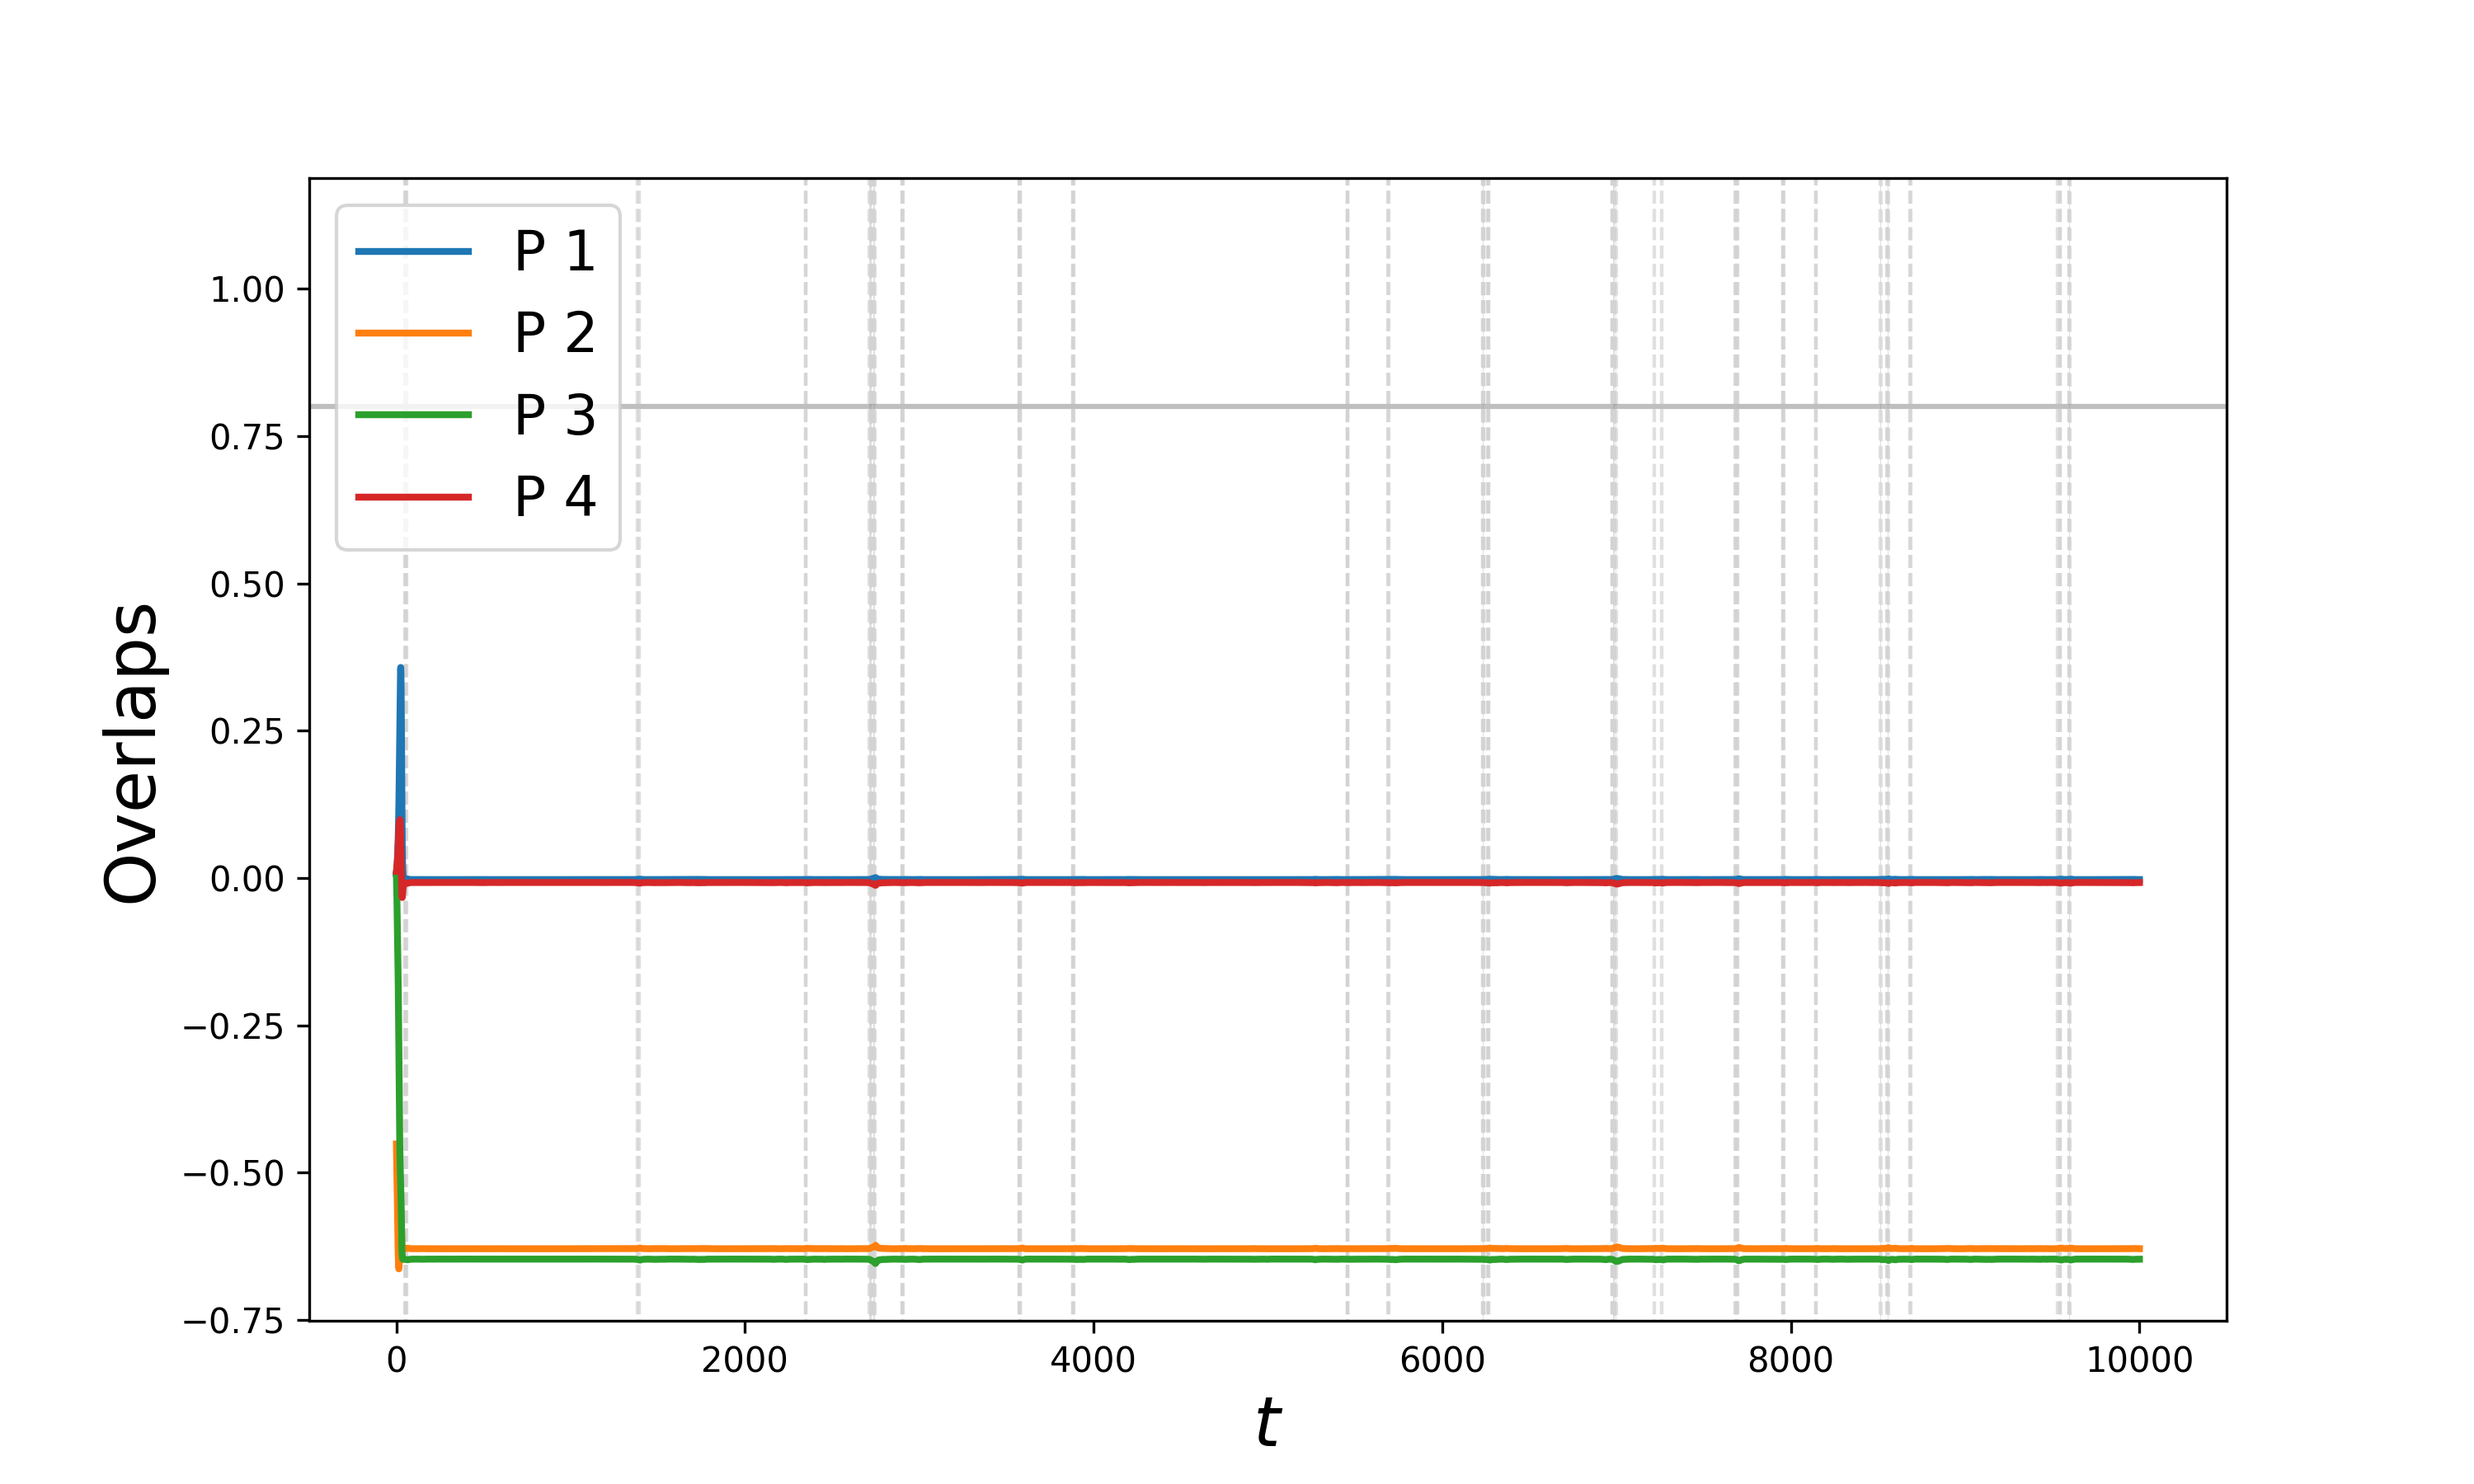
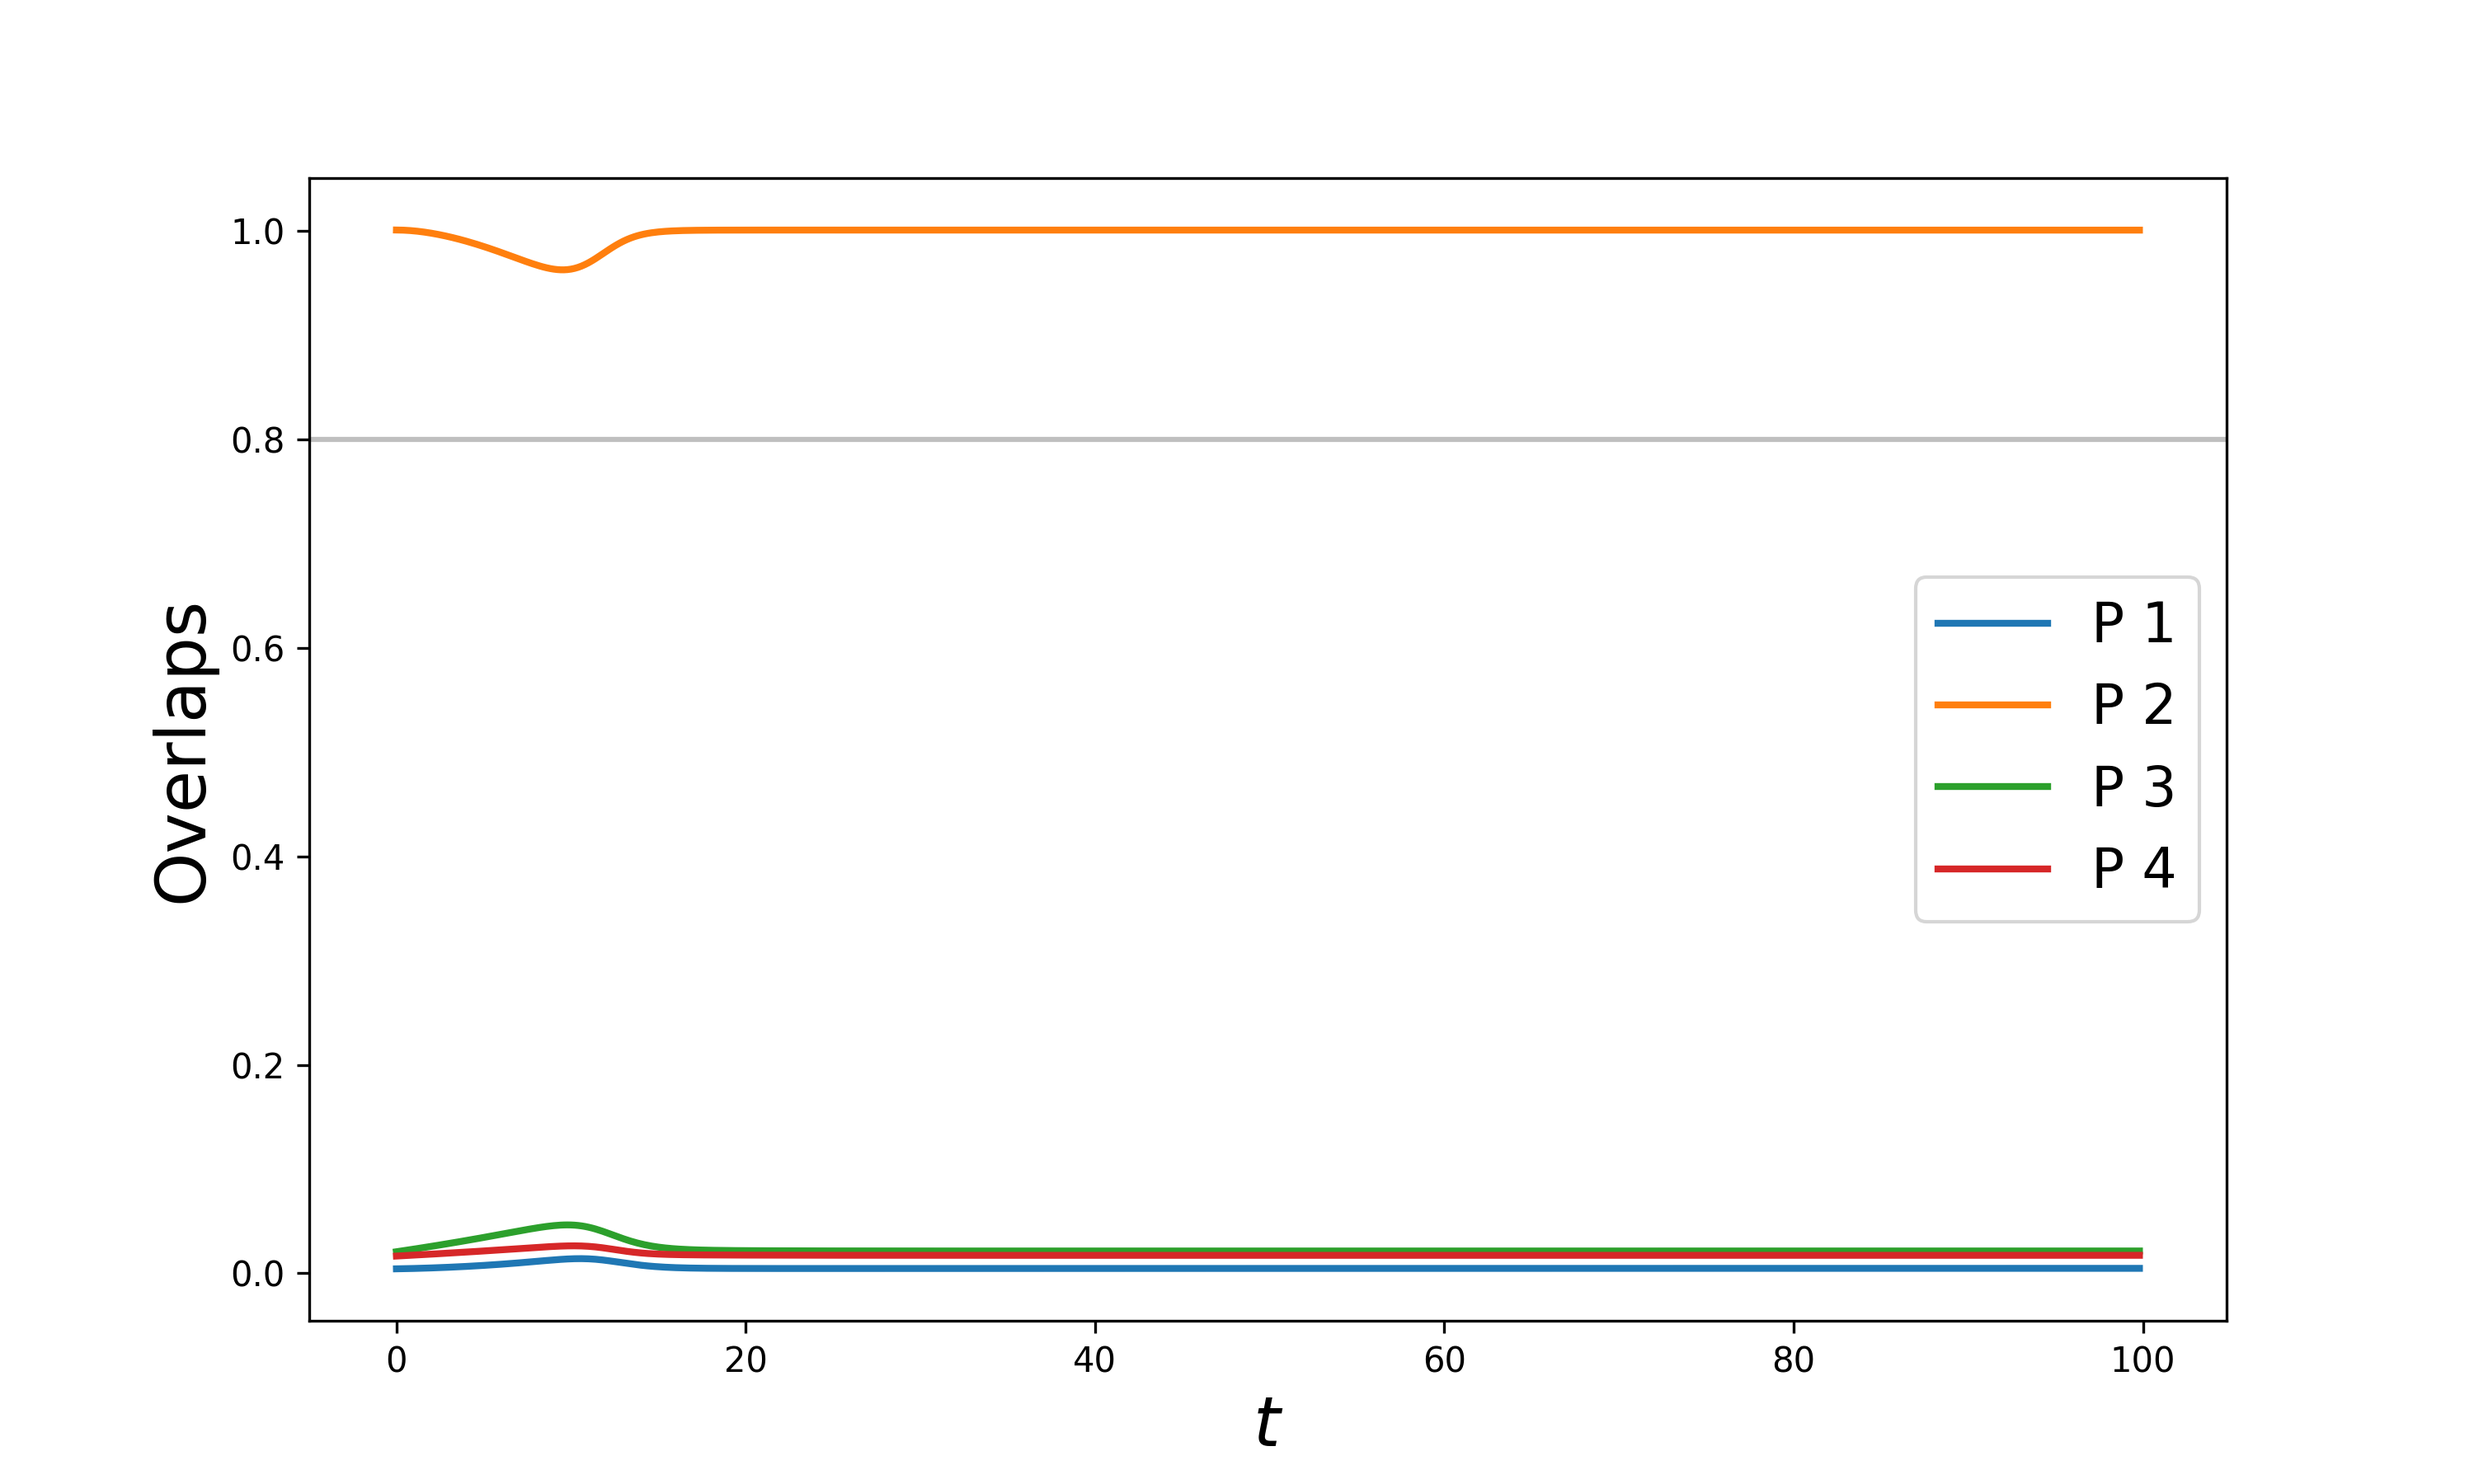
ou non neg

diff --git a/src/parameters.py b/src/parameters.py
@@ -13,7 +13,7 @@ import os
 from scipy.__config__ import show
 
 # Network size and pattern parameters
-N = 5000               # Number of neurons (increased for Numba testing)
+N = 1500               # Number of neurons (increased for Numba testing)
 p = 4                 # Number of patterns for symmetric component
 q = 4                  # Number of patterns for asymmetric component (q <= p)
 c = 0.1                # Connection probability (0-1) for Erdős-Rényi model
@@ -39,7 +39,7 @@ phi_x_r = 2.0                  # Threshold parameter for sigmoid function (using
 # Pattern distribution parameters
 pattern_mean = 0.0      # Mean of the Gaussian distribution for memory patterns
 pattern_sigma = 1.0     # Standard deviation of the Gaussian distribution for memory patterns
-alpha = 1.0  # Memory pattern sparsity (0-1): fraction of active neurons per pattern
+alpha = 1.0             # Memory pattern sparsity (0-1): fraction of active neurons per pattern
 enforce_max_correlation = False  # Switch to enable correlation constraint enforcement
 max_correlation = 0.5  # Maximum allowed correlation between patterns (when enforcement enabled)
 apply_sigma_cutoff = False       # Apply 1σ cutoff to patterns
@@ -61,7 +61,7 @@ use_numba = True        # Enable Numba JIT compilation for large networks (N > 1
 use_g = True  # Whether to apply g function to patterns, default is True in Recanatesi et al.
 
 # Initial condition settings
-init_cond_type = "Negative Memory Pattern"  # Options: "Random", "Zero", "Memory Pattern", "Near Memory Pattern", "Negative Memory Pattern"
+init_cond_type = "Memory Pattern"  # Options: "Random", "Zero", "Memory Pattern", "Near Memory Pattern", "Negative Memory Pattern"
 pattern_idx = 1         # Which pattern to use (0-indexed) if using pattern-based init - neglected in multiple simulations
 noise_level = 0.5       # Noise level if using "Near Memory Pattern" init
 
@@ -75,7 +75,7 @@ ou_non_neg = True     # Whether to enforce non-negativity on ζ(t)
 tau_zeta = 20.0          # OU time constant
 zeta_bar = 0.7          # OU mean value (0.65)
 sigma_zeta = 0.55        # OU noise intensity (0.65)
-constant_zeta = 1.     # Constant ζ value when OU is not used
+constant_zeta = 0.    # Constant ζ value when OU is not used
 
 # =============================================================================
 # VISUALIZATION PARAMETERS

diff --git a/src/simulation.py b/src/simulation.py
@@ -56,6 +56,7 @@ def simulation():
     use_numba,
     use_g,
     use_ou,
+    ou_non_neg,
     tau_zeta,
     zeta_bar,
     sigma_zeta,
@@ -186,12 +187,19 @@ def simulation():
             "\nSkipping matrix plots for large network (N > 2000) or to save time and resources."
         )
 
+    # Prepare g function parameters
+    g_params = {
+        'q_f': g_q,
+        'x_f': g_x
+    }
+
     # Set up initial condition with proper noise calculation 
     initial_condition = initial_condition_creator(
         init_cond_type=init_cond_type,
         N=N,
+        g_params=g_params,
         p=p,
-        eta=eta,
+        xi=phi_eta,
         pattern_idx=pattern_idx,
         noise_level=noise_level,
         seed=seed+19
@@ -200,8 +208,7 @@ def simulation():
     # Simulation time span
     t_span = (t_start, t_end)
 
-    # Convert initial condition and time span to float32 =========================================
-    initial_condition = initial_condition.astype(np.float32)
+    # Convert time span to float32 =========================================
     t_span = (t_start, t_end)
     # ============================================================================================
 
@@ -298,12 +305,6 @@ def simulation():
             'r_m': phi_r_m,
             'beta': phi_beta,
             'x_r': phi_x_r
-        }
-
-        # Prepare g function parameters
-        g_params = {
-            'q_f': g_q,
-            'x_f': g_x
         }
 
         overlaps = calculate_pattern_overlaps(u,
@@ -547,9 +548,7 @@ def simulation():
     # plot the times when the ou noise is above the threshold
     if zeta_array is not None:
         above_threshold = zeta_array > ou_threshold
-        under_threshold = zeta_array <= -1
         ax.fill_between(t, -0.1, 1.1, where=above_threshold, color='lightgray', alpha=0.7, ls = 'dashed', transform=ax.get_xaxis_transform())
-        ax.fill_between(t, -0.1, 1.1, where=under_threshold, color='k', alpha=0.7, ls = 'dashed', transform=ax.get_xaxis_transform())
     if overlaps is not None and overlaps.shape[1] > 0:
         p = overlaps.shape[1]
         for i in range(p):

diff --git a/src/modules/dynamics.py b/src/modules/dynamics.py
@@ -21,7 +21,7 @@ def _ou_heun_step(z, dt_step, tau_zeta, zeta_bar, sigma_zeta, dW):
 # ---------------------------
 # Initial conditions
 # ---------------------------
-def initial_condition_creator(init_cond_type, N, p=0, eta=None, pattern_idx=None, noise_level=0.5, seed=None):
+def initial_condition_creator(init_cond_type, N, g_params, p=0, xi=None, pattern_idx=None, noise_level=0.5, seed=None):
     if seed is not None:
         np.random.seed(seed)
     pattern_index = np.random.randint(0, p) if pattern_idx is None else pattern_idx
@@ -30,12 +30,14 @@ def initial_condition_creator(init_cond_type, N, p=0, eta=None, pattern_idx=None
     elif init_cond_type == "Zero":
         initial_condition = np.zeros(N)
     elif init_cond_type == "Memory Pattern":
-        initial_condition = eta[pattern_index].copy() if p > 0 and eta is not None else np.random.normal(0.0, 0.1, N)
+        initial_condition = xi[pattern_index].copy() if p > 0 and xi is not None else np.random.normal(0.0, 0.1, N)
+        initial_condition = step_function(initial_condition, **g_params)
     elif init_cond_type == "Negative Memory Pattern":
-        initial_condition = -eta[pattern_index].copy() if p > 0 and eta is not None else np.random.normal(0.0, 0.1, N)
+        initial_condition = -xi[pattern_index].copy() if p > 0 and xi is not None else np.random.normal(0.0, 0.1, N)
+        initial_condition = step_function(initial_condition, **g_params)
     else:  # Near Memory Pattern
-        if p > 0 and eta is not None:
-            pattern = eta[pattern_index % p]
+        if p > 0 and xi is not None:
+            pattern = xi[pattern_index % p]
             noise = np.random.normal(0.0, noise_level * np.std(pattern), N)
             initial_condition = pattern + noise
         else:

diff --git a/src/main.py b/src/main.py
@@ -55,6 +55,7 @@ from parameters import (
     use_numba,
     use_g,
     use_ou,
+    ou_non_neg,
     tau_zeta,
     zeta_bar,
     sigma_zeta,
@@ -90,8 +91,14 @@ def single_simulation(addition, W_S, W_A_sim, W, eta, phi_eta, t_span, ou_params
     plot_dir = os.path.join(output_dir, 'plots')
     npy_dir = os.path.join(output_dir, "npy")
 
+    # Prepare g function parameters
+    g_params = {
+        'q_f': g_q,
+        'x_f': g_x
+    }
+
     # Set up initial condition with proper noise calculation, no pattern index here (random)
-    initial_condition = initial_condition_creator(init_cond_type, N, p=p, eta=eta, noise_level=noise_level)
+    initial_condition = initial_condition_creator(init_cond_type, N, g_params=g_params, p=p, vec=phi_eta, noise_level=noise_level)
 
     # Run simulation with same φ parameters used in connectivity generation
     t, u, zeta = simulate_network(
@@ -108,7 +115,9 @@ def single_simulation(addition, W_S, W_A_sim, W, eta, phi_eta, t_span, ou_params
         x_r=phi_x_r,
         model_type=model_type,
         constant_zeta=constant_zeta if not use_ou else None,
-        use_numba=use_numba)
+        use_numba=use_numba,
+        ou_non_neg=ou_non_neg
+    )
 
     logger.info(f"\n {addition} - simulation completed successfully!")
 
@@ -120,12 +129,6 @@ def single_simulation(addition, W_S, W_A_sim, W, eta, phi_eta, t_span, ou_params
             'r_m': phi_r_m,
             'beta': phi_beta,
             'x_r': phi_x_r,
-        }
-
-        # Prepare g function parameters
-        g_params = {
-            'q_f': g_q,
-            'x_f': g_x
         }
 
         overlaps = calculate_pattern_overlaps(u,
